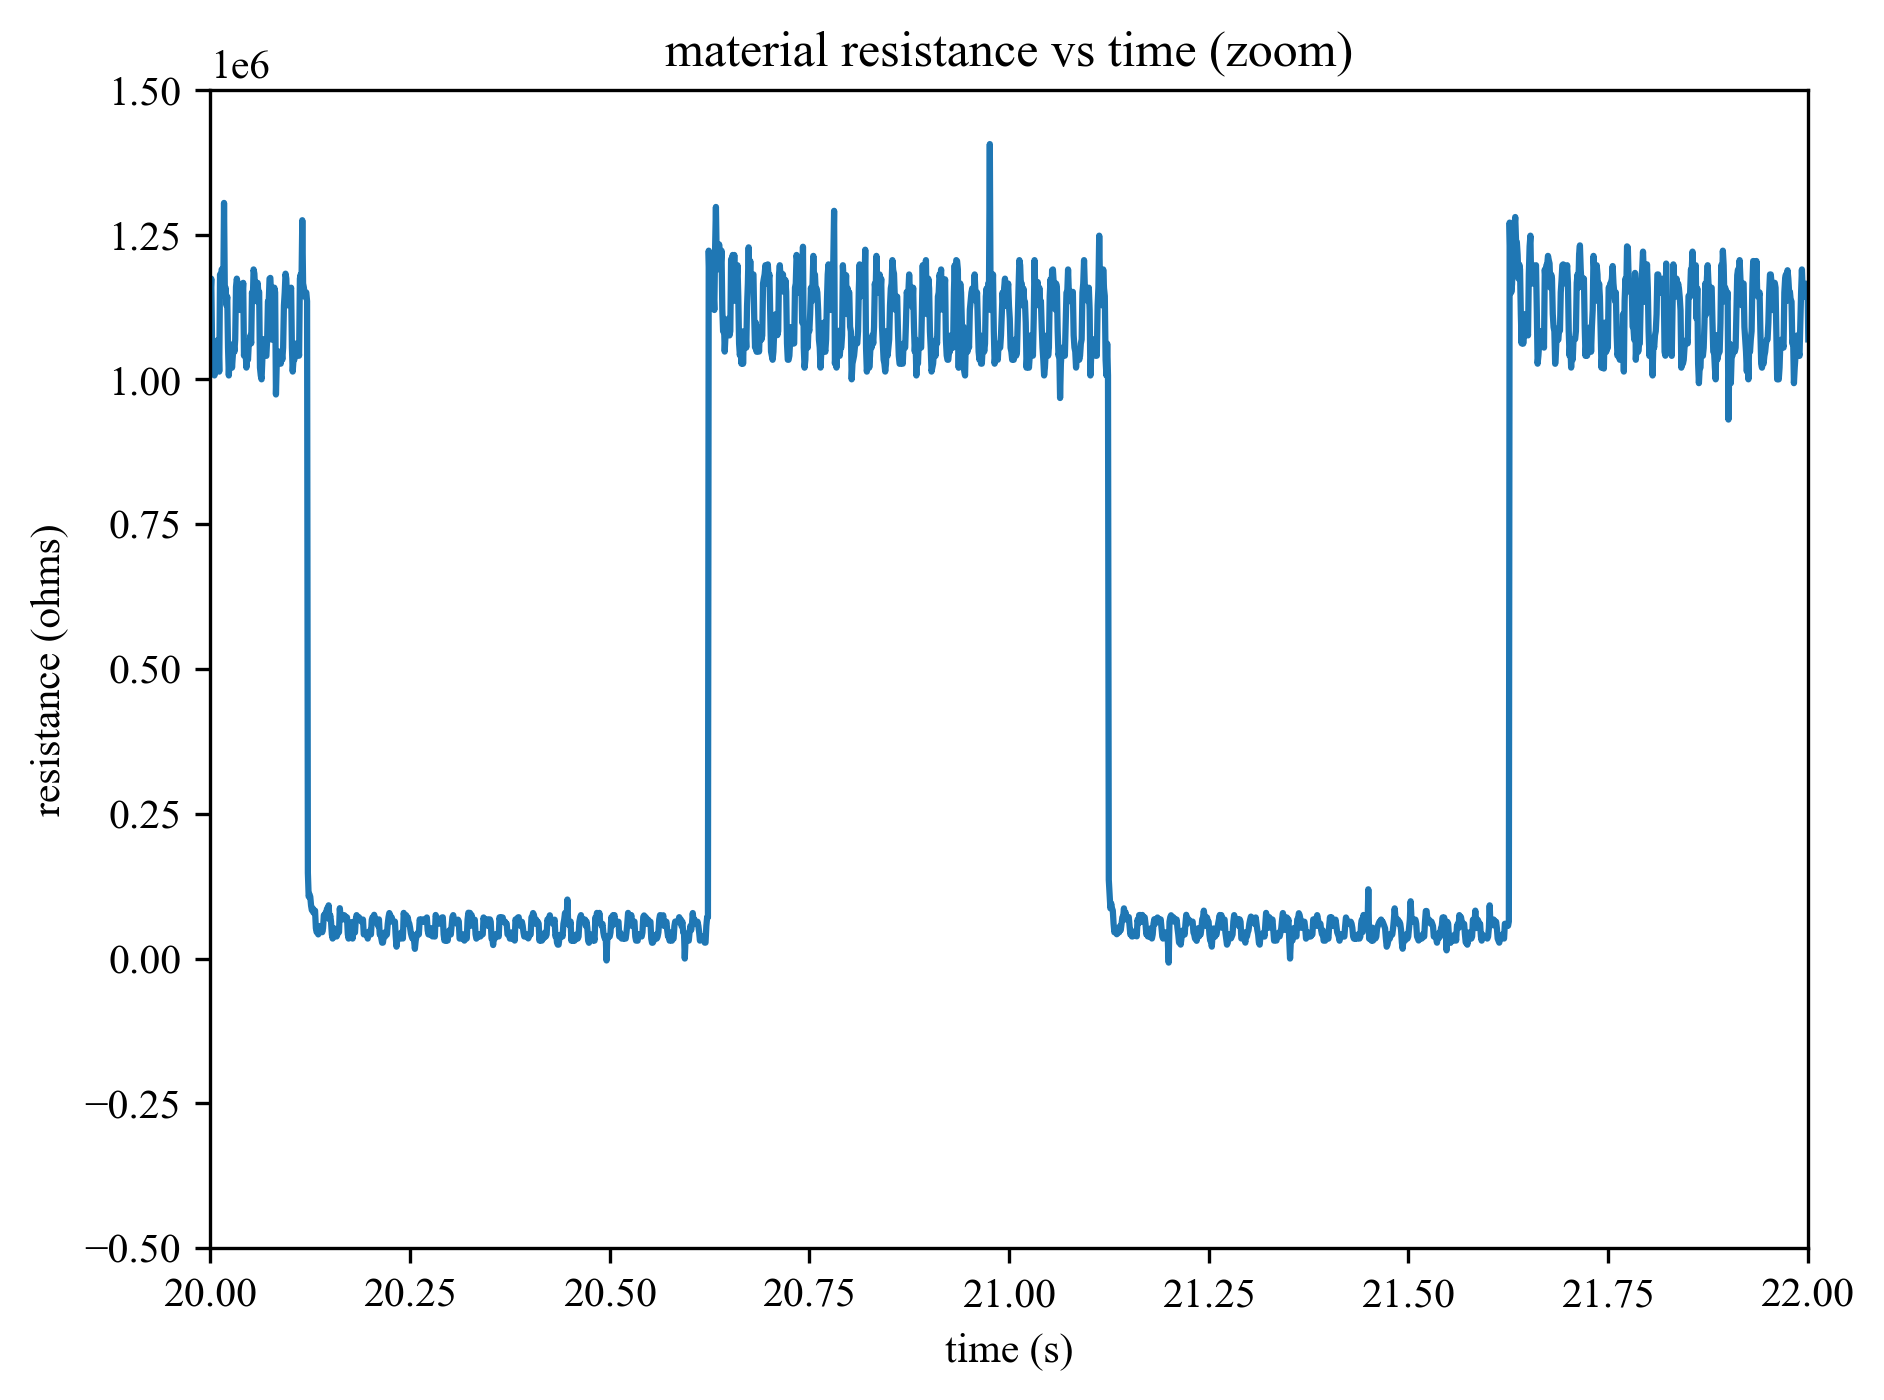
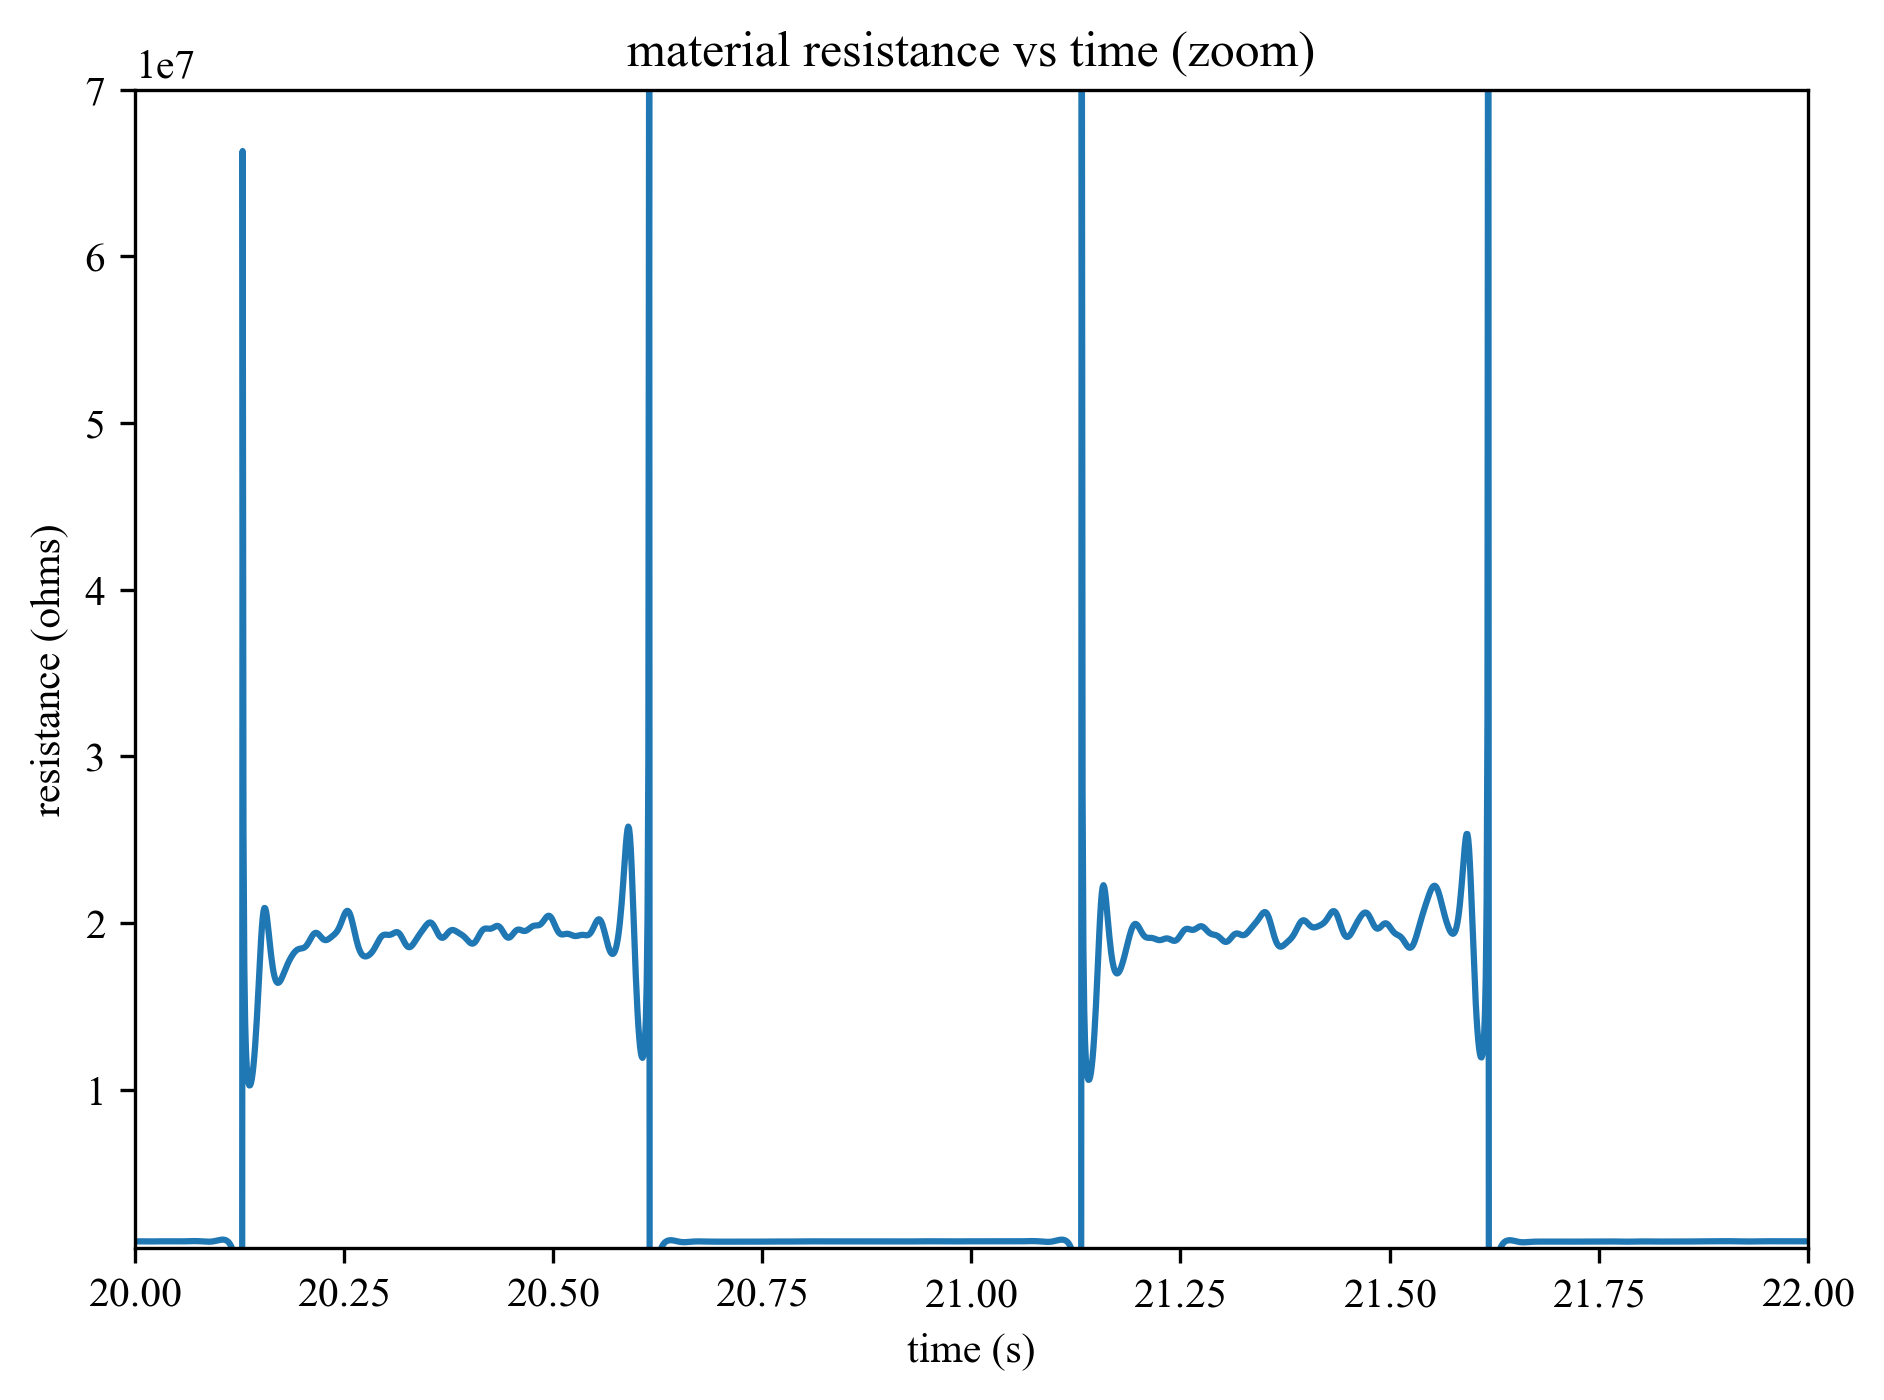
updated test figures

diff --git a/DAQ_design/Assisi/v0.2.1/code/data_processing_offline/simple-data-processing.py b/DAQ_design/Assisi/v0.2.1/code/data_processing_offline/simple-data-processing.py
@@ -40,8 +40,8 @@ plt.close('all')
 
 #%% save settings
 # !!!!YOU HAVE TO CHANGE THESE EVERY NEW TEST!!!!
-TEST_FOLDER = "07212026/test_2" # folder you're using
-TEST_FILE = "test_2.lvm" # your data file from labview
+TEST_FOLDER = "07212026/test_1" # folder you're using
+TEST_FILE = "07212026_test_1.lvm" # your data file from labview
 
 FILENAME = Path(TEST_FOLDER) / TEST_FILE # path to save to
 
@@ -218,9 +218,6 @@ print("Dominant frequency:", freq[peak], "Hz")
 
 #%% plots
 
-plt.plot(time_full, Vmat)
-plt.plot(time_full, Vshunt)
-
 '''
 # A2 vs T: whole experiment
 plt.figure()
@@ -299,8 +296,8 @@ plt.plot(pulse_time, Rpulse, 'o-')
 plt.xlabel("pulse number")
 plt.ylabel("Average Resistance (Ω)")
 plt.title("Average Steady-State Resistance vs Time")
-plt.ylim(9e5, 1e6)
-plt.xlim(0,45)
+plt.ylim(89e4, 94e4)
+plt.xlim(0,92)
 plt.grid(True)
 plt.savefig(SAVE_FOLDER / f"{TEST_NAME}-ss-ravg-pp-vs-t.png",
             dpi=300,